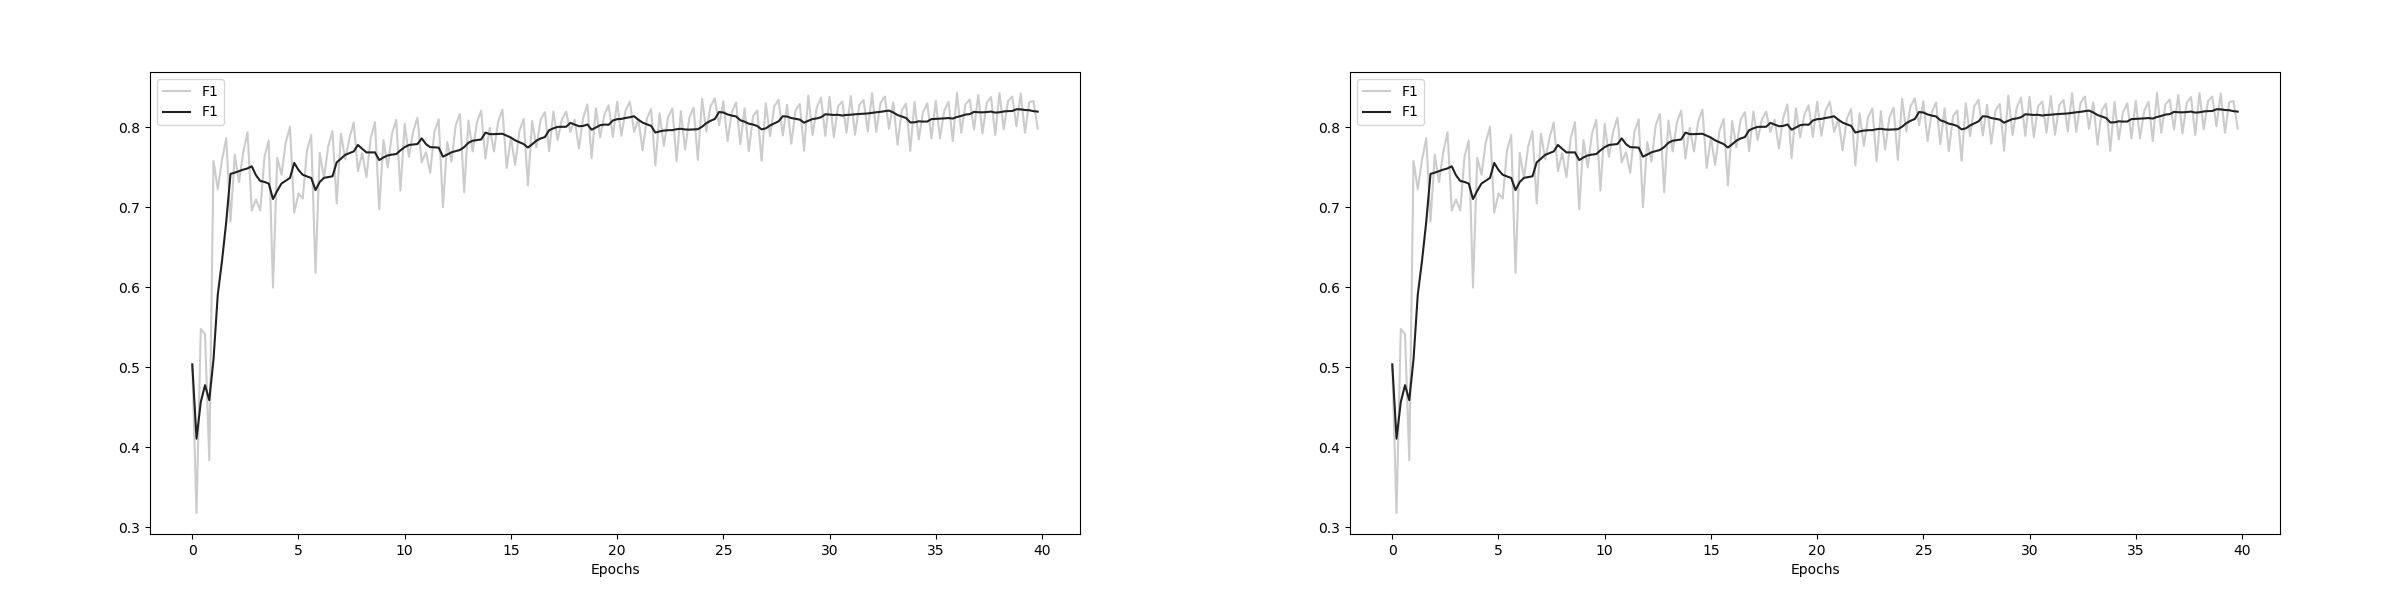
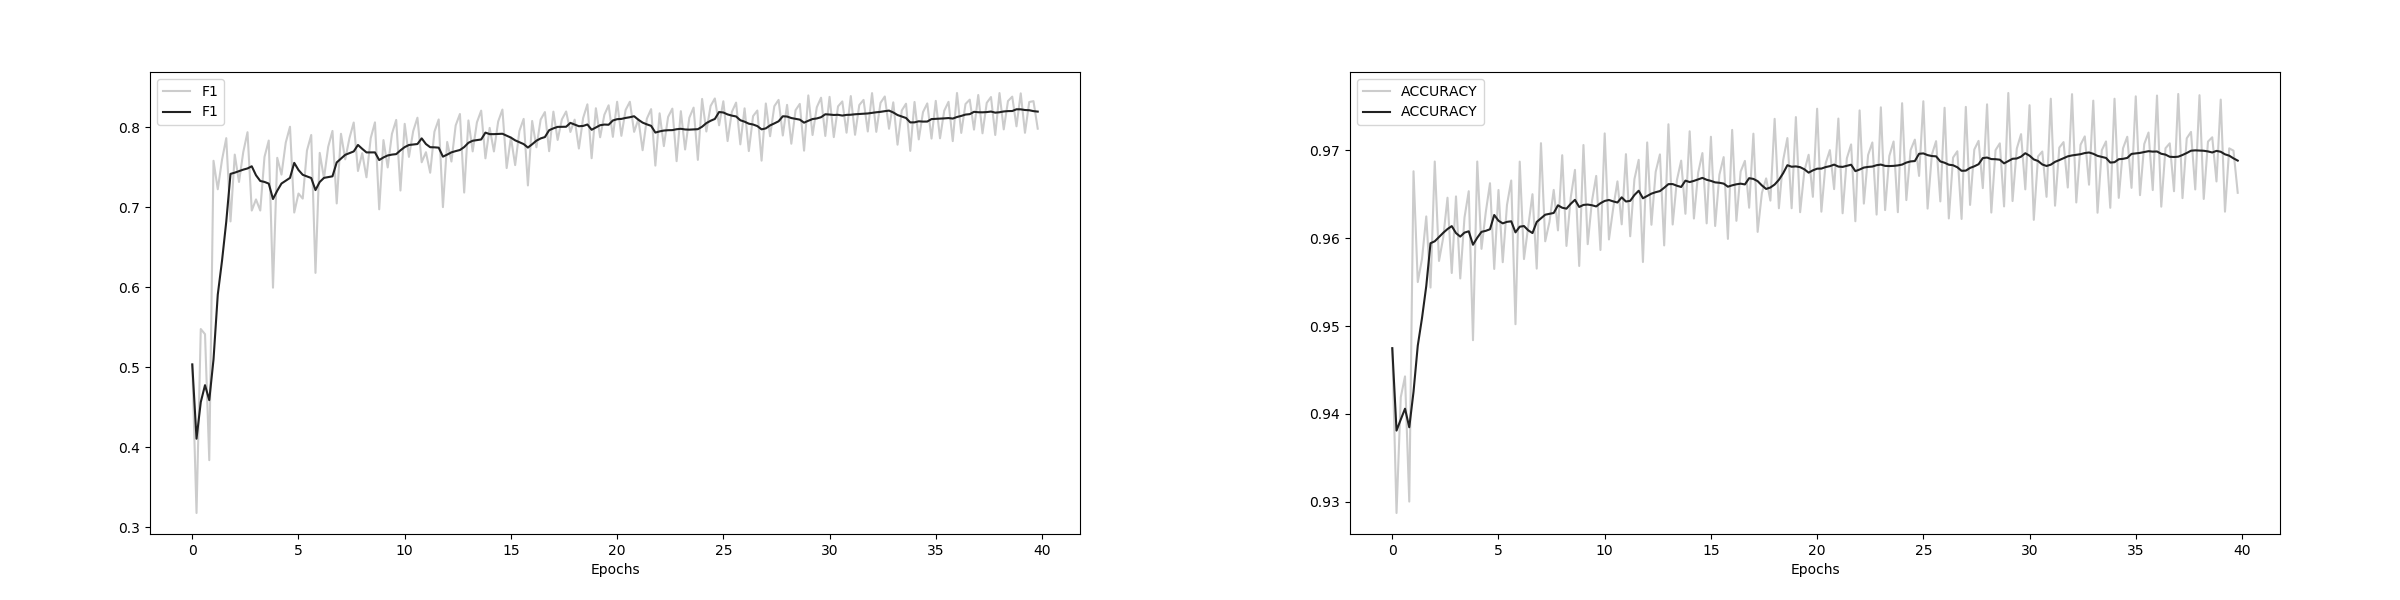
Readme Finalized

diff --git a/README.md b/README.md
@@ -145,15 +145,16 @@ Score improved:  0.49741 to 0.63598 BEST CHECKPOINT SAVED
 ```
 #### Results
 The network is trained for 40 epochs with 15 training images, 5 validation images and 20 test images.
-![Training_losses](assets/f1_ce_loss.png)
-Figure above is the training F1 and cross-entropy loss.
+![Training_Loss](assets/loss.png)
+![Training_Scores](assets/training_f1_acc.png)
+Figure above is the training loss, F1, and cross-entropy loss.
 ![Precision-Recall color-Map](assets/train_pr_map.png)
 Figure above is the training precision-recall map with color being the training iterations.
 ![Validation_scores](assets/val_f1_acc.png)
 Figure above the validation F1 and Accuracy.
-![Test scores and result](assets/test_pr.png)
+![Test scores and result](assets/test.png)
 Figure on left is the test result on test set after training and validation.
- Right one is the segmentation result on one of the test images.
+Right one is the segmentation result on one of the test images.
 
 ### Thank you!'ve made it. ❤
 
